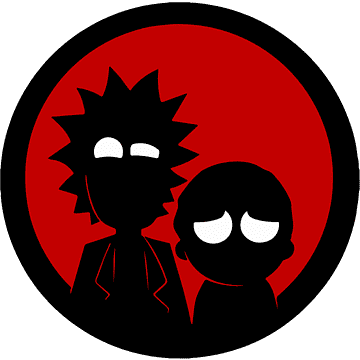
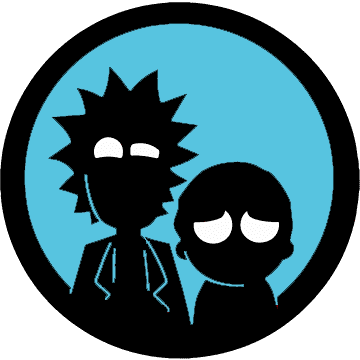
Add colors

diff --git a/src/components/BadgeForm/BadgeForm.scss b/src/components/BadgeForm/BadgeForm.scss
@@ -1,30 +1,30 @@
 @import "../../styles/base.scss";
 
-.badge-form__container {
-  width: 100%;
-  display: flex;
-  flex-direction: column;
-  align-items: center;
-  text-align: center;
-  margin: 2em 0 2em;
-
-  @include for-size(l) {
-    margin: 0 0 2em;
-  }
-}
-
 .badge-form {
   padding: 2em;
   width: 100%;
   display: flex;
   flex-direction: column;
+  align-items: center;
   box-sizing: border-box;
   box-shadow: 0 4px 8px 0 rgba(0, 0, 0, 0.2);
   border-radius: 8px;
   background-color: $color-white;
-}
+  margin-bottom: 2em;
 
-.badge-form input {
-  margin: 0.4em 0 1.2em;
-  height: 28px;
+  & hr {
+    width: 86%;
+    margin: 2em 0;
+    border-color: $color-terciary;
+  }
+
+  & input {
+    margin: 0.4em 0 1.2em;
+    height: 28px;
+    width: 86%;
+  }
+
+  & button {
+    width: 86%;
+  }
 }

diff --git a/src/components/BadgeForm/BadgeForm.jsx b/src/components/BadgeForm/BadgeForm.jsx
@@ -8,7 +8,6 @@ const BadgeForm = (props) => {
   }
 
   return (
-    <div className='badge-form__container'>
       <form onSubmit={handleSubmit} className="badge-form">
         <h2>NEW ATTENDANT</h2>
         <hr />
@@ -47,9 +46,8 @@ const BadgeForm = (props) => {
           name='twitter' 
           value={props.form.twitter}  
         />
-        <button className="btn--primary">Save</button>
+        <button className="btn btn--terciary">Save</button>
       </form>
-    </div>
   );
 };
 

diff --git a/src/styles/base.scss b/src/styles/base.scss
@@ -9,15 +9,21 @@ body {
   font-family: $font-primary;
 }
 
-.btn--primary {
+.btn {
   padding: 0.5em 1em;
   margin: 1.2em 0;
   height: 42px;
   min-width: 64px;
-  background-color: $color-primary;
   border-radius: 4px;
   border-style: none;
   font-weight: 700;
   color: white;
   text-decoration: none;
+
+  &--primary {
+    background-color: $color-primary;
+  }
+  &--terciary {
+    background-color: $color-terciary;
+  }
 }

diff --git a/src/styles/variables/colors-theme.scss b/src/styles/variables/colors-theme.scss
@@ -3,6 +3,5 @@ $color-black: #000;
 $color-gray: #aaa;
 $color-primary: #57c4e0;
 $color-secondary: #2d2a32;
-$color-terciary: #ff5252;
-$color-cuaternary: #181d20;
+$color-terciary: #ea78f1;
 $color-twitter: #00acee;

diff --git a/src/components/Badge/Badge.scss b/src/components/Badge/Badge.scss
@@ -20,7 +20,7 @@
   justify-content: center;
   width: 100%;
   height: 80px;
-  background-color: $color-secondary;
+  background-color: $color-primary;
 
   & img {
     object-fit: contain;

diff --git a/src/components/Hero/Hero.scss b/src/components/Hero/Hero.scss
@@ -12,6 +12,6 @@
   object-fit: cover;
 
   @include for-size(l) {
-    height: 42vh;
+    height: 48vh;
   }
 }
